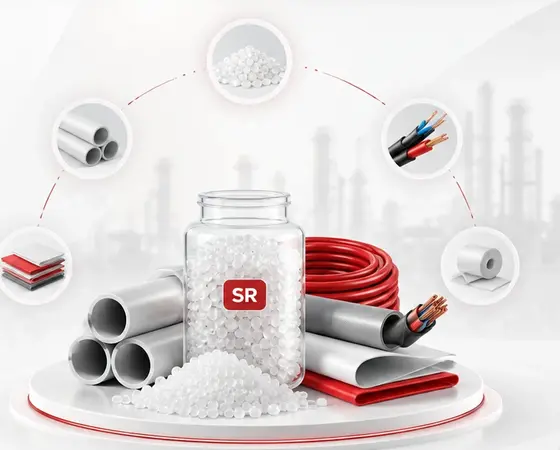
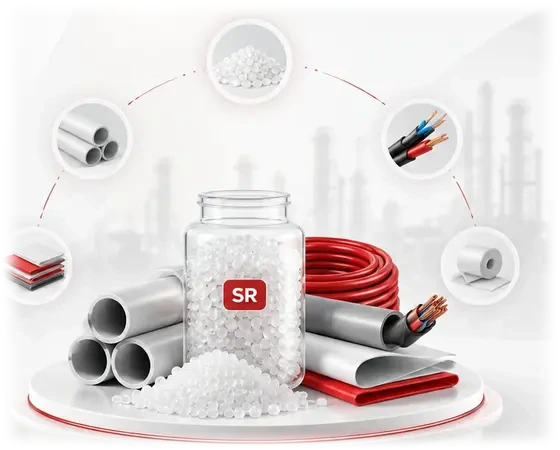
fix(mobile): zoom intro materials graphic, shift left for balance, and feather edges seamlessly

Changed region(s): [[0.2125, 0.9644, 0.7893, 1.0], [0.9714, 0.4356, 1.0, 0.6222], [0.0, 0.56, 0.0304, 0.6533]]

diff --git a/public/css/revision.css b/public/css/revision.css
@@ -4300,3 +4300,36 @@ html.js-reveal-ready .reveal-group:not(.is-revealed) {
     transition: none !important;
   }
 }
+
+
+/* =============================================================
+   INTRO SECTION (PVC RAW MATERIALS) MOBILE VISUAL ALIGNMENT
+   - Zoom graphic slightly (~8-10%) for clarity on mobile viewports
+   - Subtle left-shift (-12px to -14px) to perfectly center jar & elements
+   - Seamless radial gradient mask ensuring 0 visible edge cutoffs
+   ============================================================= */
+@media (max-width: 768px) {
+  .i2-vis {
+    max-width: 520px;
+    margin: 12px auto 0;
+  }
+  .i2-vis img {
+    transform: scale(1.08) translateX(-12px);
+    transform-origin: center center;
+    -webkit-mask-image: radial-gradient(ellipse 62% 60% at 50% 50%, #000 48%, transparent 94%);
+    mask-image: radial-gradient(ellipse 62% 60% at 50% 50%, #000 48%, transparent 94%);
+  }
+}
+
+@media (max-width: 480px) {
+  .i2-vis {
+    max-width: 100%;
+    margin: 10px auto 0;
+  }
+  .i2-vis img {
+    transform: scale(1.1) translateX(-14px);
+    transform-origin: center center;
+    -webkit-mask-image: radial-gradient(ellipse 62% 60% at 50% 50%, #000 48%, transparent 94%);
+    mask-image: radial-gradient(ellipse 62% 60% at 50% 50%, #000 48%, transparent 94%);
+  }
+}

diff --git a/public/index.html b/public/index.html
@@ -34,7 +34,7 @@
 
   <link rel="stylesheet" href="css/style.css?v=5.3">
 
-  <link rel="stylesheet" href="css/revision.css?v=5.8">
+  <link rel="stylesheet" href="css/revision.css?v=5.9">
 
 </head>
 
@@ -1252,7 +1252,7 @@
 
       <figure class="i2-vis" data-anim="fadeIn" data-delay=".2s">
 
-        <img width="786" height="632" src="images/intro-materials.webp" srcset="images/intro-materials-560.webp 560w, images/intro-materials.webp 786w" sizes="(max-width: 900px) 92vw, 46vw" alt="PVC resin granules in an SR jar with PVC pipes, red flexible tubing, cable and sheet rolls on a pedestal" loading="lazy">
+        <img width="786" height="632" src="images/intro-materials.webp?v=5.9" srcset="images/intro-materials-560.webp?v=5.9 560w, images/intro-materials.webp?v=5.9 786w" sizes="(max-width: 900px) 92vw, 46vw" alt="PVC resin granules in an SR jar with PVC pipes, red flexible tubing, cable and sheet rolls on a pedestal" loading="lazy">
 
         <ul class="i2-cats" aria-label="Material categories">
 
